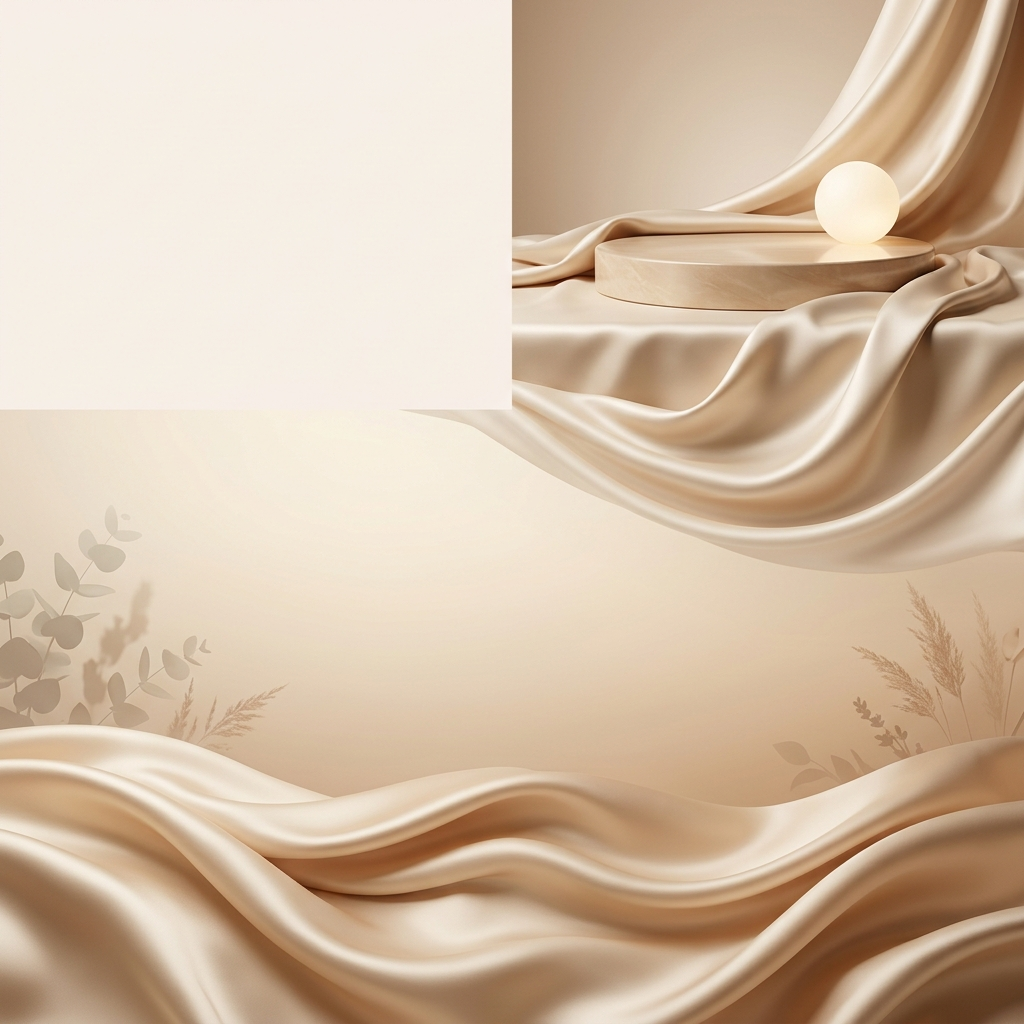
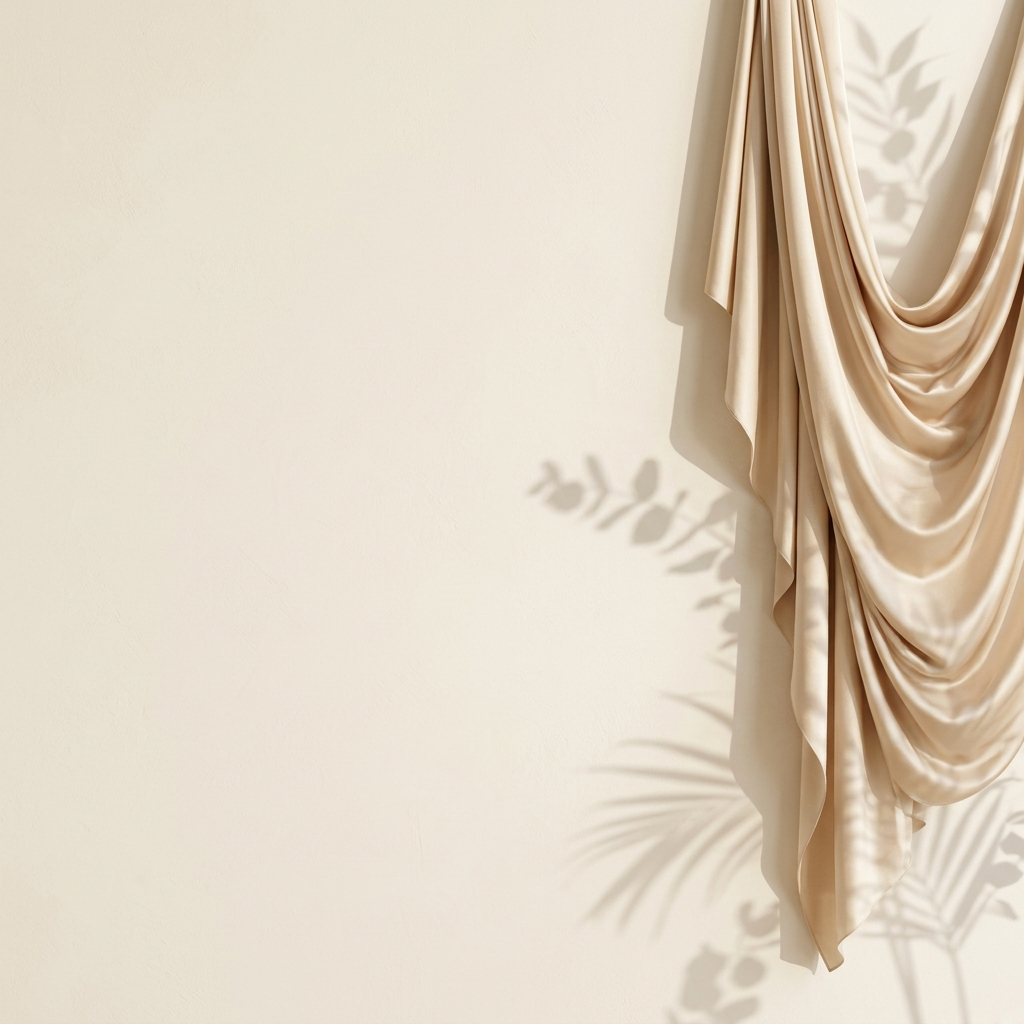
design: update storefront background to a 4K silk and botanical shadow canvas

diff --git a/src/app/components/storefront-landing/storefront-landing.component.ts b/src/app/components/storefront-landing/storefront-landing.component.ts
@@ -24,8 +24,8 @@ gsap.registerPlugin(ScrollTrigger);
     KidsShoesSectionComponent
   ],
   template: `
-    <!-- Natural scrolling container with clean background -->
-    <div class="relative w-full overflow-x-hidden flex flex-col text-[#2A1F1A]">
+    <!-- Natural scrolling container with unified background canvas -->
+    <div class="relative w-full overflow-x-hidden flex flex-col text-[#2A1F1A] storefront-unified-canvas">
       <!-- Global subtle vignette backdrop overlay -->
       <div class="absolute inset-0 pointer-events-none z-10 bg-gradient-to-b from-[#2A1F1A]/3 via-transparent to-[#2A1F1A]/8 mix-blend-multiply opacity-20"></div>
 